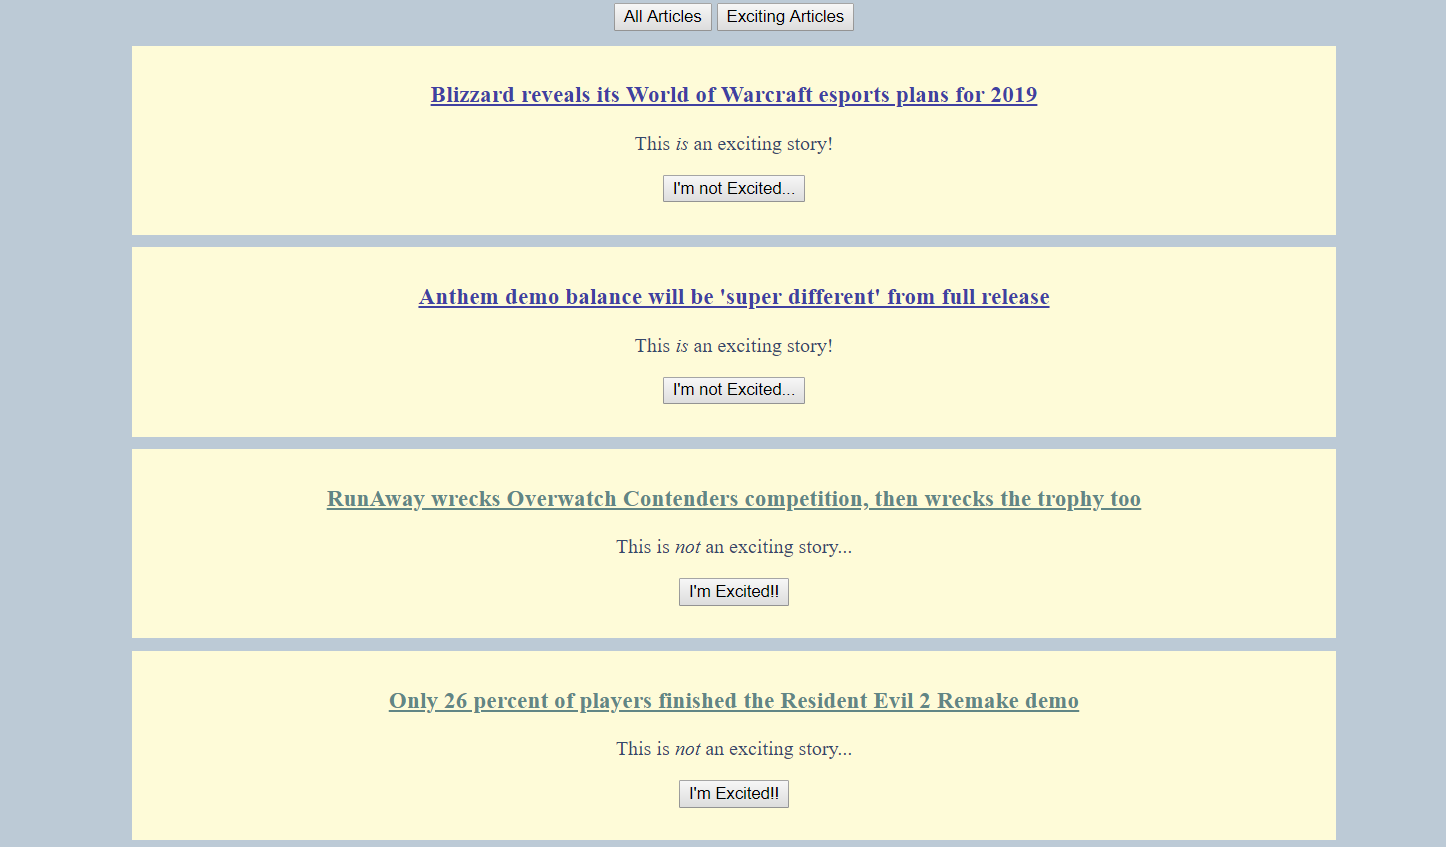
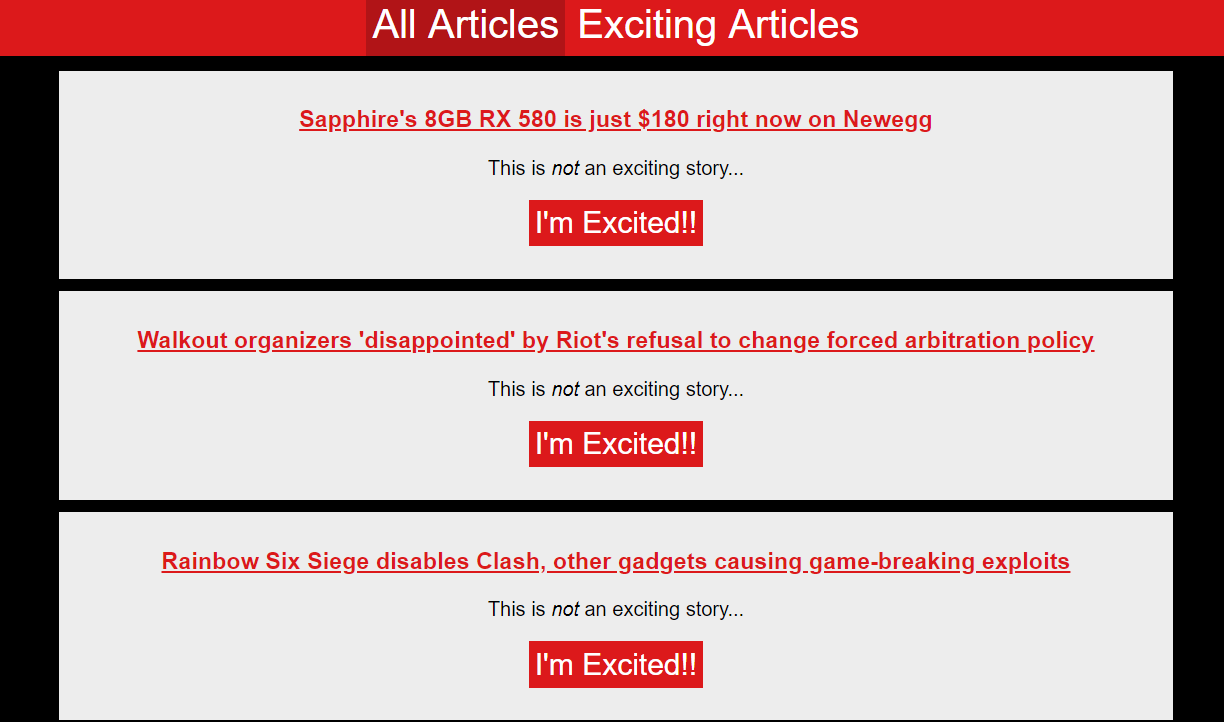
updated ReadMe

diff --git a/README.md b/README.md
@@ -1,1 +1,17 @@
-# MongoDB PCGamer Excitement and Controversy Tracker!
+# MongoDB PC Gamer Excitement Tracker!
+
+Enjoy PC Gaming? Love the PC Gamer website so much that it's been blocked on your workplace's network and you just HAVE to see what exciting headlines there are and save them for later?
+
+Then we have you covered!
+
+![Preview](public/images/articlelist.png)
+
+The [PC Gamer Excitement Tracker](https://quiet-hamlet-51798.herokuapp.com/) allows you to scrape PC Gamer for articles that you can save for reading later with the simple click of the button! Easy!
+
+### Technologies
+- HTML
+- CSS3
+- NodeJS
+- ExpressJS
+- Axios
+- MongoDB and Mongoose
